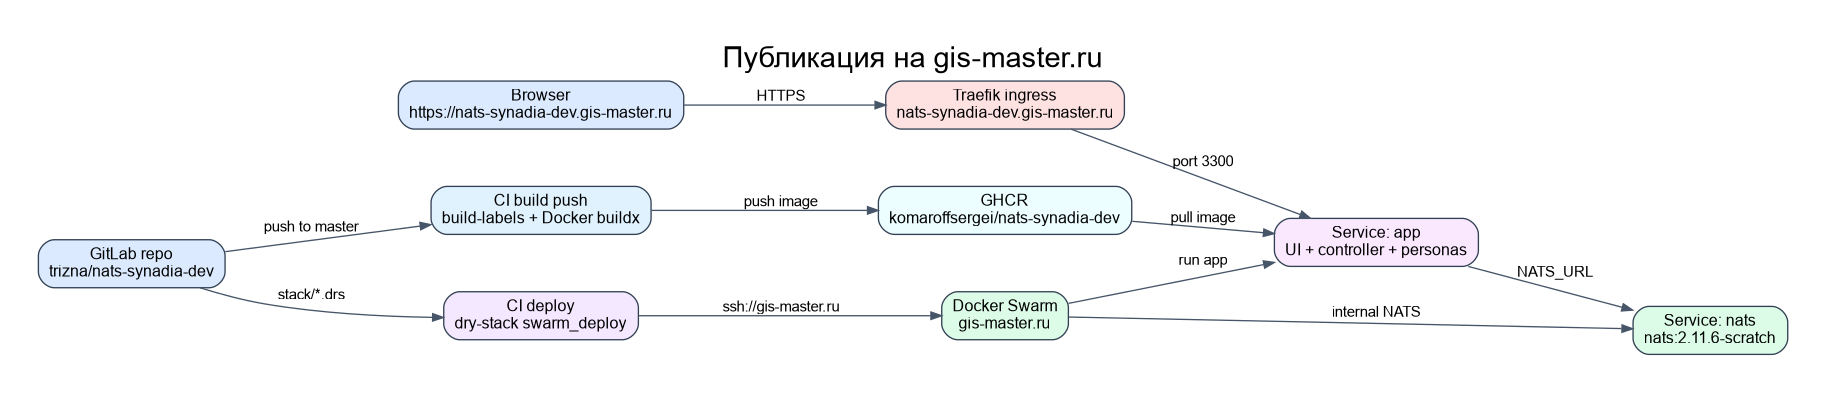
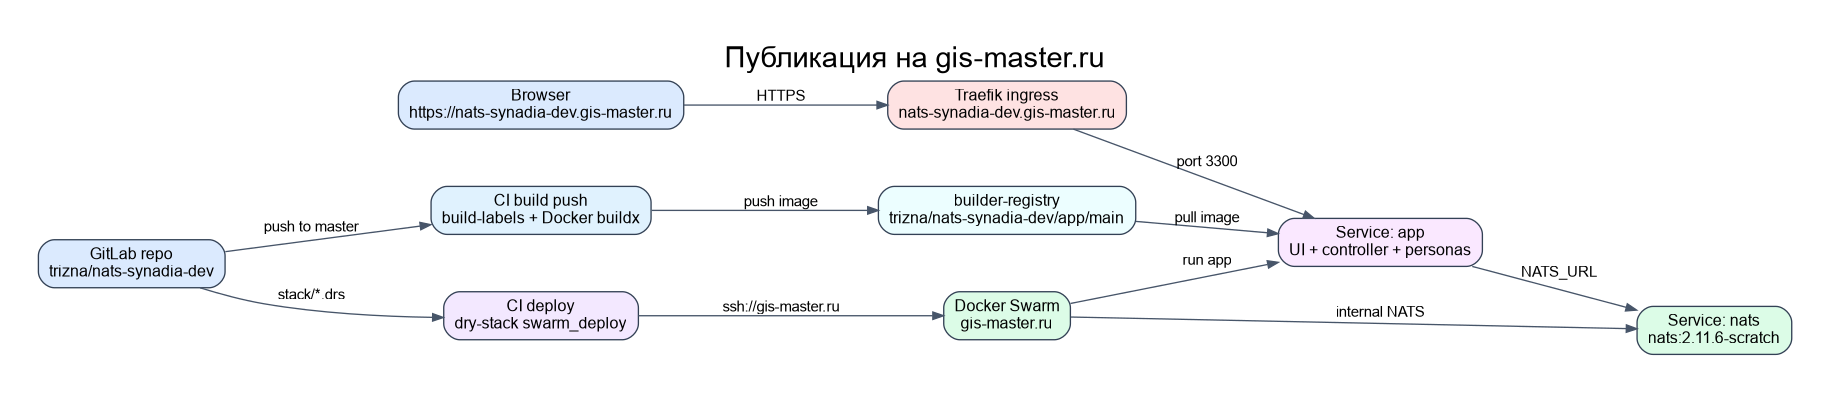
fix: build image on deploy runner
- keep builder-registry as the production image source

- make registry login best-effort so mounted runner auth can be used

- allow APP_IMAGE override for emergency deploys

diff --git a/README.md b/README.md
@@ -688,7 +688,7 @@ push to GitLab
   -> .gitlab-ci.yml
   -> docker/Dockerfile.build
   -> build-labels + docker buildx
-  -> ghcr.io/komaroffsergei/nats-synadia-dev
+  -> builder-registry.builder.giscloud.ru/trizna/nats-synadia-dev/app/main
   -> stack/Dockerfile.deploy
   -> dry-stack swarm_deploy
   -> https://nats-synadia-dev.gis-master.ru
